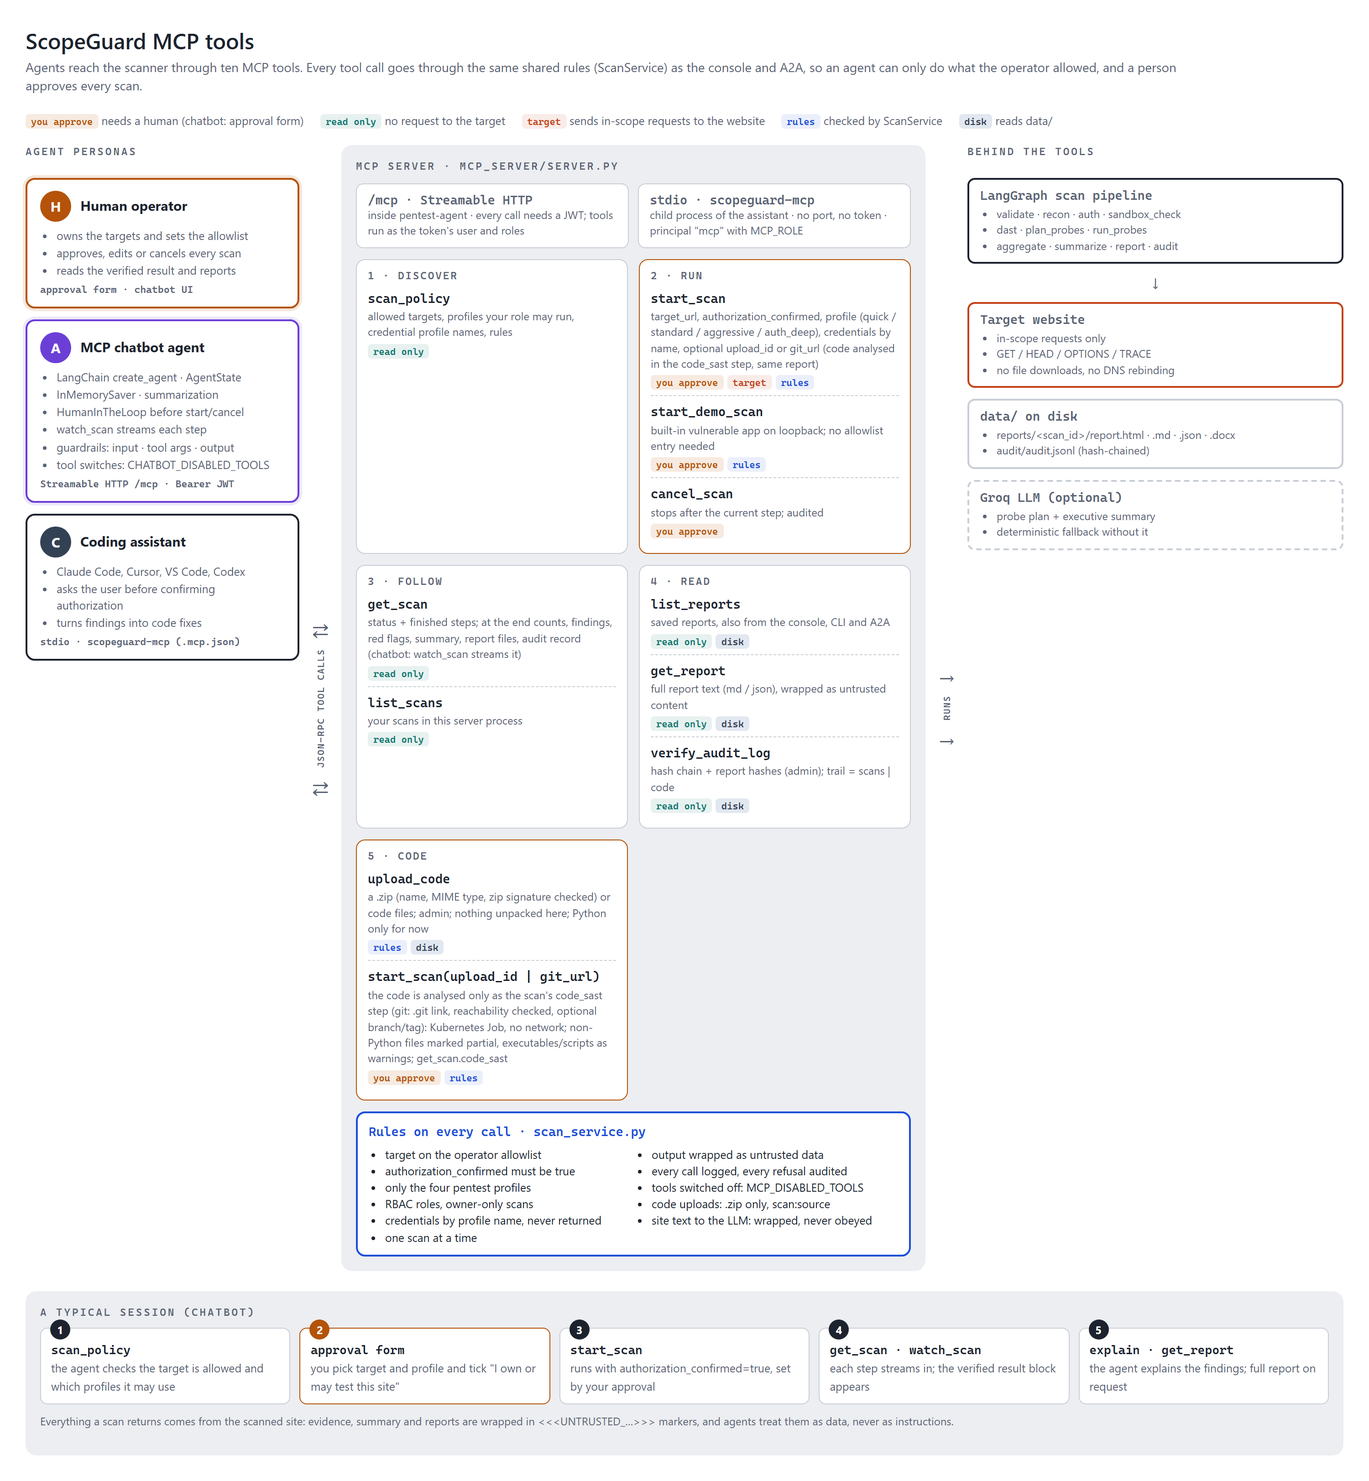
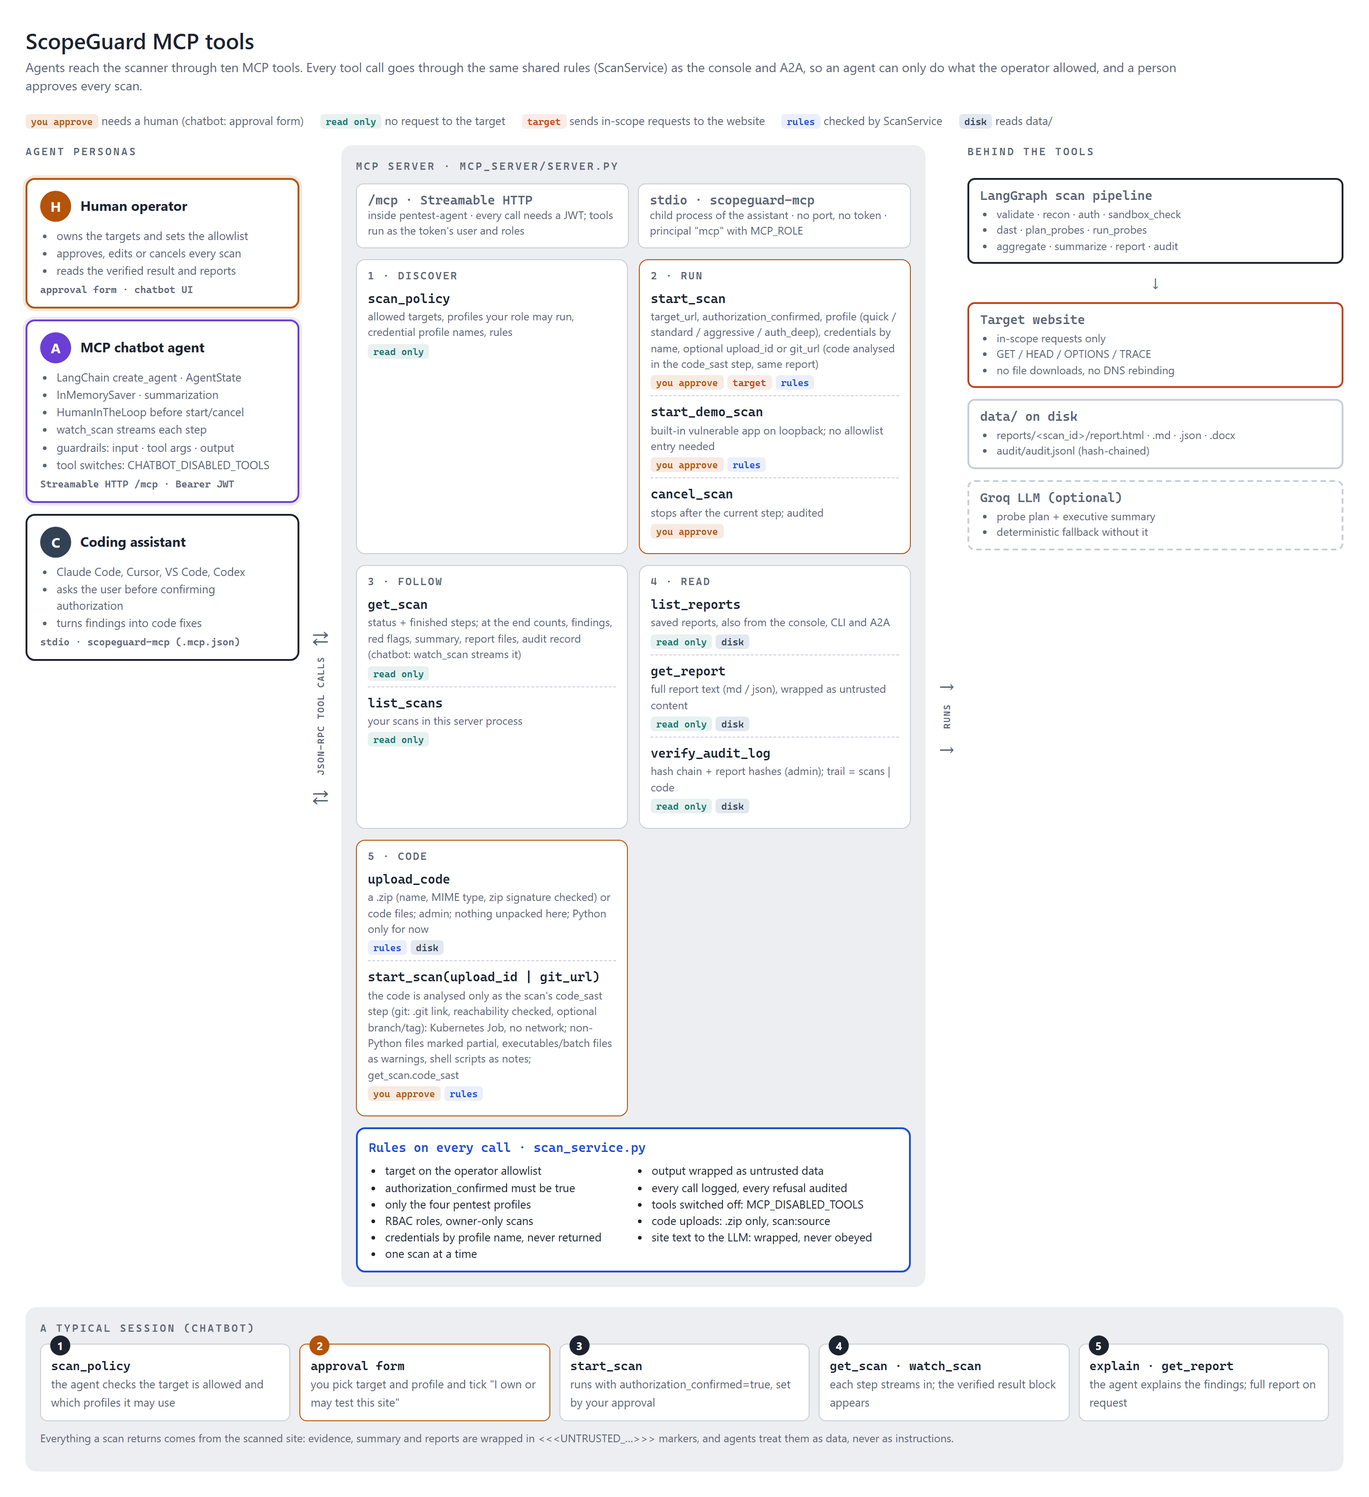
Shell scripts in uploaded code are a note, not a red flag
.exe/.bat/.cmd files stay warnings with a red flag; .sh shell scripts are
listed with level "note" (code_languages.FILE_LEVELS) and go into the
scan's notes instead (most projects ship harmless build/deploy scripts).
The report table, HTML/DOCX metadata, console, MCP get_scan (per-file
level), chatbot, post-guardrail, docs, skill and diagrams follow.

diff --git a/docs/src/scan-story.html b/docs/src/scan-story.html
@@ -113,7 +113,7 @@
     <div class="card you"><span class="n">08</span><h3>You, with your code</h3><code>code_source</code><span class="chip c-you">asks you</span>
       <p>At the code step the scan waits and asks you for your app's source code: pick some code files or a .zip, paste the .git link of a public repository (GitHub, GitLab, Bitbucket; any branch or tag), or skip. The link is checked first, so you can fix it if it can't be reached. Untick "ask me for source code" and it never waits. No answer in time: the website is tested on its own.</p></div>
     <div class="card"><span class="n">09</span><h3>The Code analyst</h3><code>code_sast</code><span class="chip c-box">sealed box</span>
-      <p>Reads the code you gave (Python only for now) inside a sealed box with no internet: risky patterns, leaked secrets, missing access checks, unsafe settings. A git link is copied first (latest version only, no passwords). Nothing is ever run; files that aren't Python are marked as only partly checked, programs and scripts (.exe, .bat, .sh) are flagged as warnings, and every finding comes with how to fix it, in the same report.</p></div>
+      <p>Reads the code you gave (Python only for now) inside a sealed box with no internet: risky patterns, leaked secrets, missing access checks, unsafe settings. A git link is copied first (latest version only, no passwords). Nothing is ever run; files that aren't Python are marked as only partly checked, programs and batch files (.exe, .bat) are flagged as warnings and shell scripts noted, and every finding comes with how to fix it, in the same report.</p></div>
     <div class="card"><span class="n">10</span><h3>The Code reader</h3><code>sandbox_check</code><span class="chip c-box">sealed box</span><span class="chip c-web">reads your pages</span>
       <p>Copies the text of your website's pages and scripts into a sealed box with no internet and reads that code for risky patterns. It never runs anything; the box is destroyed when it's done, and its findings join the same report.</p></div>
     <div class="card"><span class="n">11</span><h3>The Scanner</h3><code>dast</code><span class="chip c-web">visits your website</span><span class="chip c-box">isolated</span>

diff --git a/src/pentest_agent/webui/app.js b/src/pentest_agent/webui/app.js
@@ -1012,9 +1012,11 @@
     }
     if (lang.non_python_omitted) out.push(`+${Number(lang.non_python_omitted) || 0} more non-Python file(s)`);
     for (const w of (Array.isArray(lang.warnings) ? lang.warnings : []).slice(0, 100)) {
-      out.push(`WARNING: ${str(w.file, 300)} (${str(w.kind, 40)}): executable / script file, review it`);
+      out.push(w.level === 'note'
+        ? `Note: ${str(w.file, 300)} (shell script): review it if you did not expect it`
+        : `WARNING: ${str(w.file, 300)} (${str(w.kind, 40)}): executable / script file, review it`);
     }
-    if (lang.warnings_omitted) out.push(`WARNING: +${Number(lang.warnings_omitted) || 0} more executable / script file(s)`);
+    if (lang.warnings_omitted) out.push(`+${Number(lang.warnings_omitted) || 0} more executable / script file(s)`);
     if (!counts.length && up.language_notice) out.push(str(up.language_notice, 300));
     const std = up.coding_standard || {};
     if (std.standard) {
@@ -1556,7 +1558,8 @@
     if (other.length > 20) list.append(el('li', { class: 'muted', text: `+${other.length - 20} more not Python` }));
     if (!py.length && other.length) list.append(el('li', { class: 'bad', text: 'No Python files: the results are partial and a clean result means little.' }));
     for (const f of files.filter((x) => warnKind(x.name)).slice(0, 20)) {
-      list.append(el('li', { class: 'warn', text: `WARNING ${str(f.name, 120)}: ${warnKind(f.name)}${/\.exe$/i.test(f.name) ? ' (binary: send it inside a .zip)' : ', review it'}` }));
+      const note = /\.sh$/i.test(f.name);  // shell scripts: a note, not a warning
+      list.append(el('li', { class: note ? 'muted' : 'warn', text: `${note ? 'Note' : 'WARNING'} ${str(f.name, 120)}: ${warnKind(f.name)}${/\.exe$/i.test(f.name) ? ' (binary: send it inside a .zip)' : note ? ', review it if unexpected' : ', review it'}` }));
     }
   }
 

diff --git a/docs/src/mcp-tools.html b/docs/src/mcp-tools.html
@@ -188,7 +188,7 @@ every scan.</p>
           <span class="d">a .zip (name, MIME type, zip signature checked) or code files; admin; nothing unpacked here; Python only for now</span>
           <div class="tags"><span class="tag guard">rules</span><span class="tag disk">disk</span></div></div>
         <div class="tool"><span class="n">start_scan(upload_id | git_url)</span>
-          <span class="d">the code is analysed only as the scan's code_sast step (git: .git link, reachability checked, optional branch/tag): Kubernetes Job, no network; non-Python files marked partial, executables/scripts as warnings; get_scan.code_sast</span>
+          <span class="d">the code is analysed only as the scan's code_sast step (git: .git link, reachability checked, optional branch/tag): Kubernetes Job, no network; non-Python files marked partial, executables/batch files as warnings, shell scripts as notes; get_scan.code_sast</span>
           <div class="tags"><span class="tag you">you approve</span><span class="tag guard">rules</span></div></div>
       </div>
     </div>

diff --git a/chatbots/ui/static/index.html b/chatbots/ui/static/index.html
@@ -43,7 +43,7 @@
 
   <div id="attachment" class="attachment" hidden role="status" aria-live="polite">
     <span class="att-name" id="att-name"></span>
-    <span class="att-note">Goes with your next message: ask for a web scan of your site with this code. The code is analysed in the scan's code SAST step, all in one report. Or paste a public git link instead. <b>Python only for now:</b> other files are marked &ldquo;not Python, partial coverage&rdquo;; .exe/.bat/.cmd/.sh files are flagged as warnings.</span>
+    <span class="att-note">Goes with your next message: ask for a web scan of your site with this code. The code is analysed in the scan's code SAST step, all in one report. Or paste a public git link instead. <b>Python only for now:</b> other files are marked &ldquo;not Python, partial coverage&rdquo;; .exe/.bat/.cmd files are flagged as warnings, .sh scripts as notes.</span>
     <button type="button" id="att-remove" class="ghost" title="Remove the attachment">Remove</button>
   </div>
   <form id="composer" class="composer" autocomplete="off">

diff --git a/src/pentest_agent/webui/index.html b/src/pentest_agent/webui/index.html
@@ -62,7 +62,7 @@
           The code is unpacked and analysed only inside the sandbox (never run): SAST, XSS, IDOR, injection, SSRF,
           secrets, supply chain, IaC, plus the PEP 8 coding standard for Python, with recommendations. Pre- and post-guardrails check every step, and everything
           goes into the scan's one report; files that are not Python are marked &ldquo;partial coverage&rdquo;, and
-          executables / scripts (.exe, .bat, .cmd, .sh) are flagged as <b>warnings</b>.</p>
+          executables / batch scripts (.exe, .bat, .cmd) are flagged as <b>warnings</b>, shell scripts (.sh) as notes.</p>
         <p class="lang-notice" id="u-lang"><b>Python only for now.</b> The code analysis is built and tested for Python projects; other languages are only partly covered, so a clean result for them means little.</p>
         <ul class="int-list" id="upload-sandbox"><li class="muted">Loading...</li></ul>
       </section>

diff --git a/docs/src/architecture.html b/docs/src/architecture.html
@@ -113,7 +113,7 @@
         <div class="tags"><i class="tag you">human</i></div>
 
         <div class="node"><span class="t">code_sast</span><span>your source code, sandboxed</span></div>
-        <div class="mod"><b>code_upload.analyse_for_scan → Kubernetes Job</b><span>pre/post guardrails (sandbox + code step); no network; non-Python files marked partial; .exe/.bat/.cmd/.sh = warnings; PEP 8 coding standard for Python; one report</span></div>
+        <div class="mod"><b>code_upload.analyse_for_scan → Kubernetes Job</b><span>pre/post guardrails (sandbox + code step); no network; non-Python files marked partial; .exe/.bat/.cmd = warnings, .sh = notes; PEP 8 coding standard for Python; one report</span></div>
         <div class="tags"><i class="tag box">sandbox</i></div>
 
         <div class="node"><span class="t">sast</span><span>only if sandbox check is off</span></div>

diff --git a/src/pentest_agent/code_languages.py b/src/pentest_agent/code_languages.py
@@ -35,11 +35,14 @@ OTHER_LANGUAGES = {
 # Everything else the analyzer reads (configuration, IaC, docs) is checked by the config and
 # secret rules, which do not depend on the programming language.
 MAX_LISTED = 100
-# Executables and scripts in the code are always flagged as warnings: they are never run here, but
-# they can run on a developer's or a build machine, so a person should review them.
+# Executables and scripts in the code are always listed: they are never run here, but they can run
+# on a developer's or a build machine. Windows executables and batch scripts are warnings (and a red
+# flag); shell scripts are only a note, since most projects ship harmless ones (build, deploy).
 WARNING_FILES = {".exe": "Windows executable", ".bat": "Windows batch script", ".cmd": "Windows batch script",
                  ".sh": "shell script"}
+FILE_LEVELS = {".exe": "warning", ".bat": "warning", ".cmd": "warning", ".sh": "note"}
 WARNING_DETAIL = "executable / script file: review it (never run by ScopeGuard)"
+NOTE_DETAIL = "shell script: review it if you did not expect it (never run by ScopeGuard)"
 _UNSAFE = re.compile("[\x00-\x1f\x7f" + "".join(map(chr, (*range(0x202A, 0x202F), *range(0x2066, 0x206A),
                                                            0x200E, 0x200F))) + "]")
 
@@ -53,8 +56,13 @@ def classify(name: str) -> str:
 
 
 def warning_kind(name: str) -> str | None:
-    """'Windows executable', 'shell script', ... for files flagged as warnings; else None."""
+    """'Windows executable', 'shell script', ... for executable / script files; else None."""
     return WARNING_FILES.get(posixpath.splitext(str(name).lower())[1])
+
+
+def file_level(name: str) -> str | None:
+    """``warning`` (.exe / .bat / .cmd), ``note`` (.sh) or None."""
+    return FILE_LEVELS.get(posixpath.splitext(str(name).lower())[1])
 
 
 def _entry_names(archive_path: Path) -> tuple[list[str], list[str]]:
@@ -84,8 +92,10 @@ def language_report(archive_path: Path) -> dict:
         names, warned = _entry_names(archive_path)
     except (OSError, zipfile.BadZipFile, ValueError):
         return {}
-    warnings = [{"file": n, "kind": warning_kind(n), "level": "warning", "detail": WARNING_DETAIL}
-                for n in warned]
+    # One list for both levels: warnings first, then notes (shell scripts).
+    warnings = [{"file": n, "kind": warning_kind(n), "level": file_level(n),
+                 "detail": WARNING_DETAIL if file_level(n) == "warning" else NOTE_DETAIL}
+                for n in sorted(warned, key=lambda n: (file_level(n) != "warning", n))]
     by_language: dict[str, int] = {}
     non_python: list[dict] = []
     for name in names:
@@ -136,20 +146,28 @@ def partial_prefix(language: str) -> str:
 
 
 def red_flags(report: dict) -> list[str]:
-    """A warning for executable / script files, and one when the code is not a Python project
-    (the reader must not trust a clean result)."""
+    """A red flag for Windows executables / batch scripts (not for shell scripts: see :func:`notes`),
+    and one when the code is not a Python project (the reader must not trust a clean result)."""
     if not report:
         return []
     flags = []
-    warnings = report.get("warnings") or []
+    warnings = [w for w in report.get("warnings") or [] if w.get("level") == "warning"]
     if warnings:
-        total = len(warnings) + int(report.get("warnings_omitted") or 0)
         kinds = sorted({str(w.get("kind")) for w in warnings})
-        flags.append(f"Warning: {total} executable / script file(s) in the source code ({', '.join(kinds)}): "
+        flags.append(f"Warning: {len(warnings)} executable / script file(s) in the source code ({', '.join(kinds)}): "
                      "review them; ScopeGuard never runs them.")
     if not report.get("python_project") and (report.get("other_code_files") or report.get("python_files")):
         flags.append(f"Source code is not a Python project: {report['verdict']}")
     return flags
+
+
+def notes(report: dict) -> list[str]:
+    """Shell scripts: listed in the report and mentioned in the scan's notes, not a red flag."""
+    scripts = [w for w in (report or {}).get("warnings") or [] if w.get("level") == "note"]
+    if not scripts:
+        return []
+    return [(f"Note: {len(scripts)} shell script(s) in the source code; review them if you did not expect them "
+            "(ScopeGuard never runs them).")]
 
 
 def summary(report: dict) -> str:
@@ -175,10 +193,11 @@ def report_lines(report: dict) -> list[str]:
             lines.append(f"| ... | | {report['non_python_omitted']} more |")
         lines.append("")
     if report.get("warnings"):
-        lines += ["### Warnings: executable and script files", "", "| File | Kind | Level |", "|---|---|---|"]
-        lines += [f"| `{str(w['file']).replace('|', '/').replace('`', '')}` | {w['kind']} | WARNING |"
-                  for w in report["warnings"]]
+        lines += ["### Executable and script files", "", "| File | Kind | Level |", "|---|---|---|"]
+        lines += [f"| `{str(w['file']).replace('|', '/').replace('`', '')}` | {w['kind']} | "
+                  f"{str(w.get('level') or 'warning').upper()} |" for w in report["warnings"]]
         if report.get("warnings_omitted"):
             lines.append(f"| ... | | {report['warnings_omitted']} more |")
-        lines += ["", f"_{WARNING_DETAIL}._", ""]
+        lines += ["", ("_WARNING: Windows executable / batch script, review it. NOTE: shell script, review it if "
+                      "unexpected. ScopeGuard never runs them._"), ""]
     return lines

diff --git a/tests/test_code_source.py b/tests/test_code_source.py
@@ -579,11 +579,27 @@ def test_executables_and_scripts_are_flagged_as_warnings():
     rep = code_languages.language_report(path)
     assert [(w["file"], w["kind"], w["level"]) for w in rep["warnings"]] == [
         ("deploy.cmd", "Windows batch script", "warning"), ("run.bat", "Windows batch script", "warning"),
-        ("scripts/build.sh", "shell script", "warning"), ("tools/setup.exe", "Windows executable", "warning")]
-    (flag,) = code_languages.red_flags(rep)
-    assert flag.startswith("Warning: 4 executable / script file(s)")
+        ("tools/setup.exe", "Windows executable", "warning"), ("scripts/build.sh", "shell script", "note")]
+    (flag,) = code_languages.red_flags(rep)  # the shell script is not part of the red flag
+    assert flag.startswith("Warning: 3 executable / script file(s)") and "shell script" not in flag
+    assert code_languages.notes(rep) == [("Note: 1 shell script(s) in the source code; review them if you did not "
+                                         "expect them (ScopeGuard never runs them).")]
     md = "\n".join(code_languages.report_lines(rep))
-    assert "### Warnings: executable and script files" in md and "| `tools/setup.exe` | Windows executable | WARNING |" in md
+    assert "### Executable and script files" in md and "| `tools/setup.exe` | Windows executable | WARNING |" in md
+    assert "| `scripts/build.sh` | shell script | NOTE |" in md
+
+
+def test_a_shell_script_alone_is_a_note_not_a_red_flag():
+    from pentest_agent import code_languages
+    from pentest_agent.tools.sandbox_check import execute_upload_analysis
+
+    meta = code_source.store_files(ADMIN, [{"name": "app/views.py", "content": VULN_PY},
+                                           {"name": "scripts/deploy.sh", "content": "#!/bin/sh\necho hi\n"}])
+    out = execute_upload_analysis(upload_id=meta["upload_id"], principal=ADMIN.state_dict(), session_id="sh-1")
+    assert not any("executable / script" in f for f in out["red_flags"])
+    assert "Note: 1 shell script(s)" in out["notes"]
+    assert [(w["file"], w["level"]) for w in out["upload"]["languages"]["warnings"]] == [("scripts/deploy.sh", "note")]
+    assert code_languages.red_flags(out["upload"]["languages"]) == []
 
 
 def test_batch_files_can_be_sent_as_code_files_and_are_warned_about():

diff --git a/chatbots/mcp_chatbot/scopeguard_common.py b/chatbots/mcp_chatbot/scopeguard_common.py
@@ -465,9 +465,12 @@ def _code_sast_markdown(code: dict | None) -> list[str]:
     for name in langs.get("not_python") or []:  # file names from the upload, shown as code
         clean = " ".join(_MARKER_RE.sub("", str(name)).split()).replace("`", "")[:200]
         out.append(f"  - not Python, partial coverage: `{clean}`")
-    for name in langs.get("warnings") or []:  # executables / scripts: always a warning
+    for name in langs.get("warnings") or []:  # executables / scripts; "...; note)" = a shell script
         clean = " ".join(_MARKER_RE.sub("", str(name)).split()).replace("`", "")[:200]
-        out.append(f"  - **WARNING** executable / script file, review it: `{clean}`")
+        if clean.endswith("; note)"):
+            out.append(f"  - Note: shell script, review it if unexpected: `{clean}`")
+        else:
+            out.append(f"  - **WARNING** executable / script file, review it: `{clean}`")
     if not by and code.get("language_notice"):
         out.append(f"- {code['language_notice']}")
     std = code.get("coding_standard") or {}
@@ -533,7 +536,8 @@ def compact_scan_result(r: dict) -> str:
             lines.append(f"coding standard (PEP 8; STYLE_* findings are info/low): "
                          f"{std.get('files_with_issues') or 0} file(s) with issues, by rule: {std.get('files_by_rule')}")
         if langs.get("warnings"):
-            lines.append("WARNING executable / script files (tell the user to review them): "
+            lines.append("executable / script files (level warning: tell the user to review them; "
+                         "level note: shell scripts, mention briefly): "
                          + "; ".join(str(n) for n in langs["warnings"][:20]))
     for flag in r.get("red_flags") or []:
         lines.append(f"red flag: {flag}")

diff --git a/src/pentest_agent/mcp_server/server.py b/src/pentest_agent/mcp_server/server.py
@@ -57,8 +57,9 @@ the scan's one report (no separate code report; get_scan.code_sast summarises it
 Python are marked: get_scan.code_sast.languages lists them as "not Python, partial coverage", their
 findings start with "[<language>, not Python: partial coverage]" and have low confidence, and a red
 flag says when the code is not a Python project. Tell the user a clean result for such code means
-little. Executable and script files (.exe, .bat, .cmd, .sh) are always listed as warnings
-(get_scan.code_sast.languages.warnings and a red flag): ask the user to review them. Python files
+little. Executable and script files are always listed (get_scan.code_sast.languages.warnings,
+each with its level): .exe/.bat/.cmd are warnings with a red flag, ask the user to review them;
+.sh shell scripts are only a note (review them if unexpected). Python files
 are also checked against the PEP 8 coding standard (STYLE_* findings, info/low severity, one per rule
 and file; get_scan.code_sast.coding_standard summarises them). scan_policy.code_uploads shows the sandbox status.
 

diff --git a/src/pentest_agent/tools/report_tool.py b/src/pentest_agent/tools/report_tool.py
@@ -214,11 +214,15 @@ def _language_meta(languages: dict) -> list[tuple[str, str]]:
     if listed:
         more = f" (+{languages['non_python_omitted']} more)" if languages.get("non_python_omitted") else ""
         rows.append(("Not Python (partial coverage)", ", ".join(listed[:30]) + more))
-    warned = [f"{w['file']} ({w['kind']})" for w in languages.get("warnings") or []]
+    listed_files = languages.get("warnings") or []
+    warned = [f"{w['file']} ({w['kind']})" for w in listed_files if w.get("level", "warning") == "warning"]
     if warned:
         more = f" (+{languages['warnings_omitted']} more)" if languages.get("warnings_omitted") else ""
         rows.append(("WARNING: executable / script files", ", ".join(warned[:30]) + more
                      + f". {code_languages.WARNING_DETAIL}."))
+    scripts = [f"{w['file']}" for w in listed_files if w.get("level") == "note"]
+    if scripts:
+        rows.append(("Note: shell scripts", ", ".join(scripts[:30]) + f". {code_languages.NOTE_DETAIL}."))
     return rows
 
 

diff --git a/src/pentest_agent/code_guardrails.py b/src/pentest_agent/code_guardrails.py
@@ -276,7 +276,9 @@ def post_code_step(findings: list[dict], languages: dict, source: dict
             injected += 1
             name = "[file name withheld: it addresses AI agents]"
         kind = item.get("kind") if item.get("kind") in code_languages.WARNING_FILES.values() else "executable / script"
-        warned.append({"file": name, "kind": kind, "level": "warning", "detail": code_languages.WARNING_DETAIL})
+        level = "note" if item.get("level") == "note" else "warning"  # anything unknown stays a warning
+        warned.append({"file": name, "kind": kind, "level": level,
+                       "detail": code_languages.NOTE_DETAIL if level == "note" else code_languages.WARNING_DETAIL})
     if clean_langs:
         clean_langs["non_python"] = names
         clean_langs["warnings"] = warned
